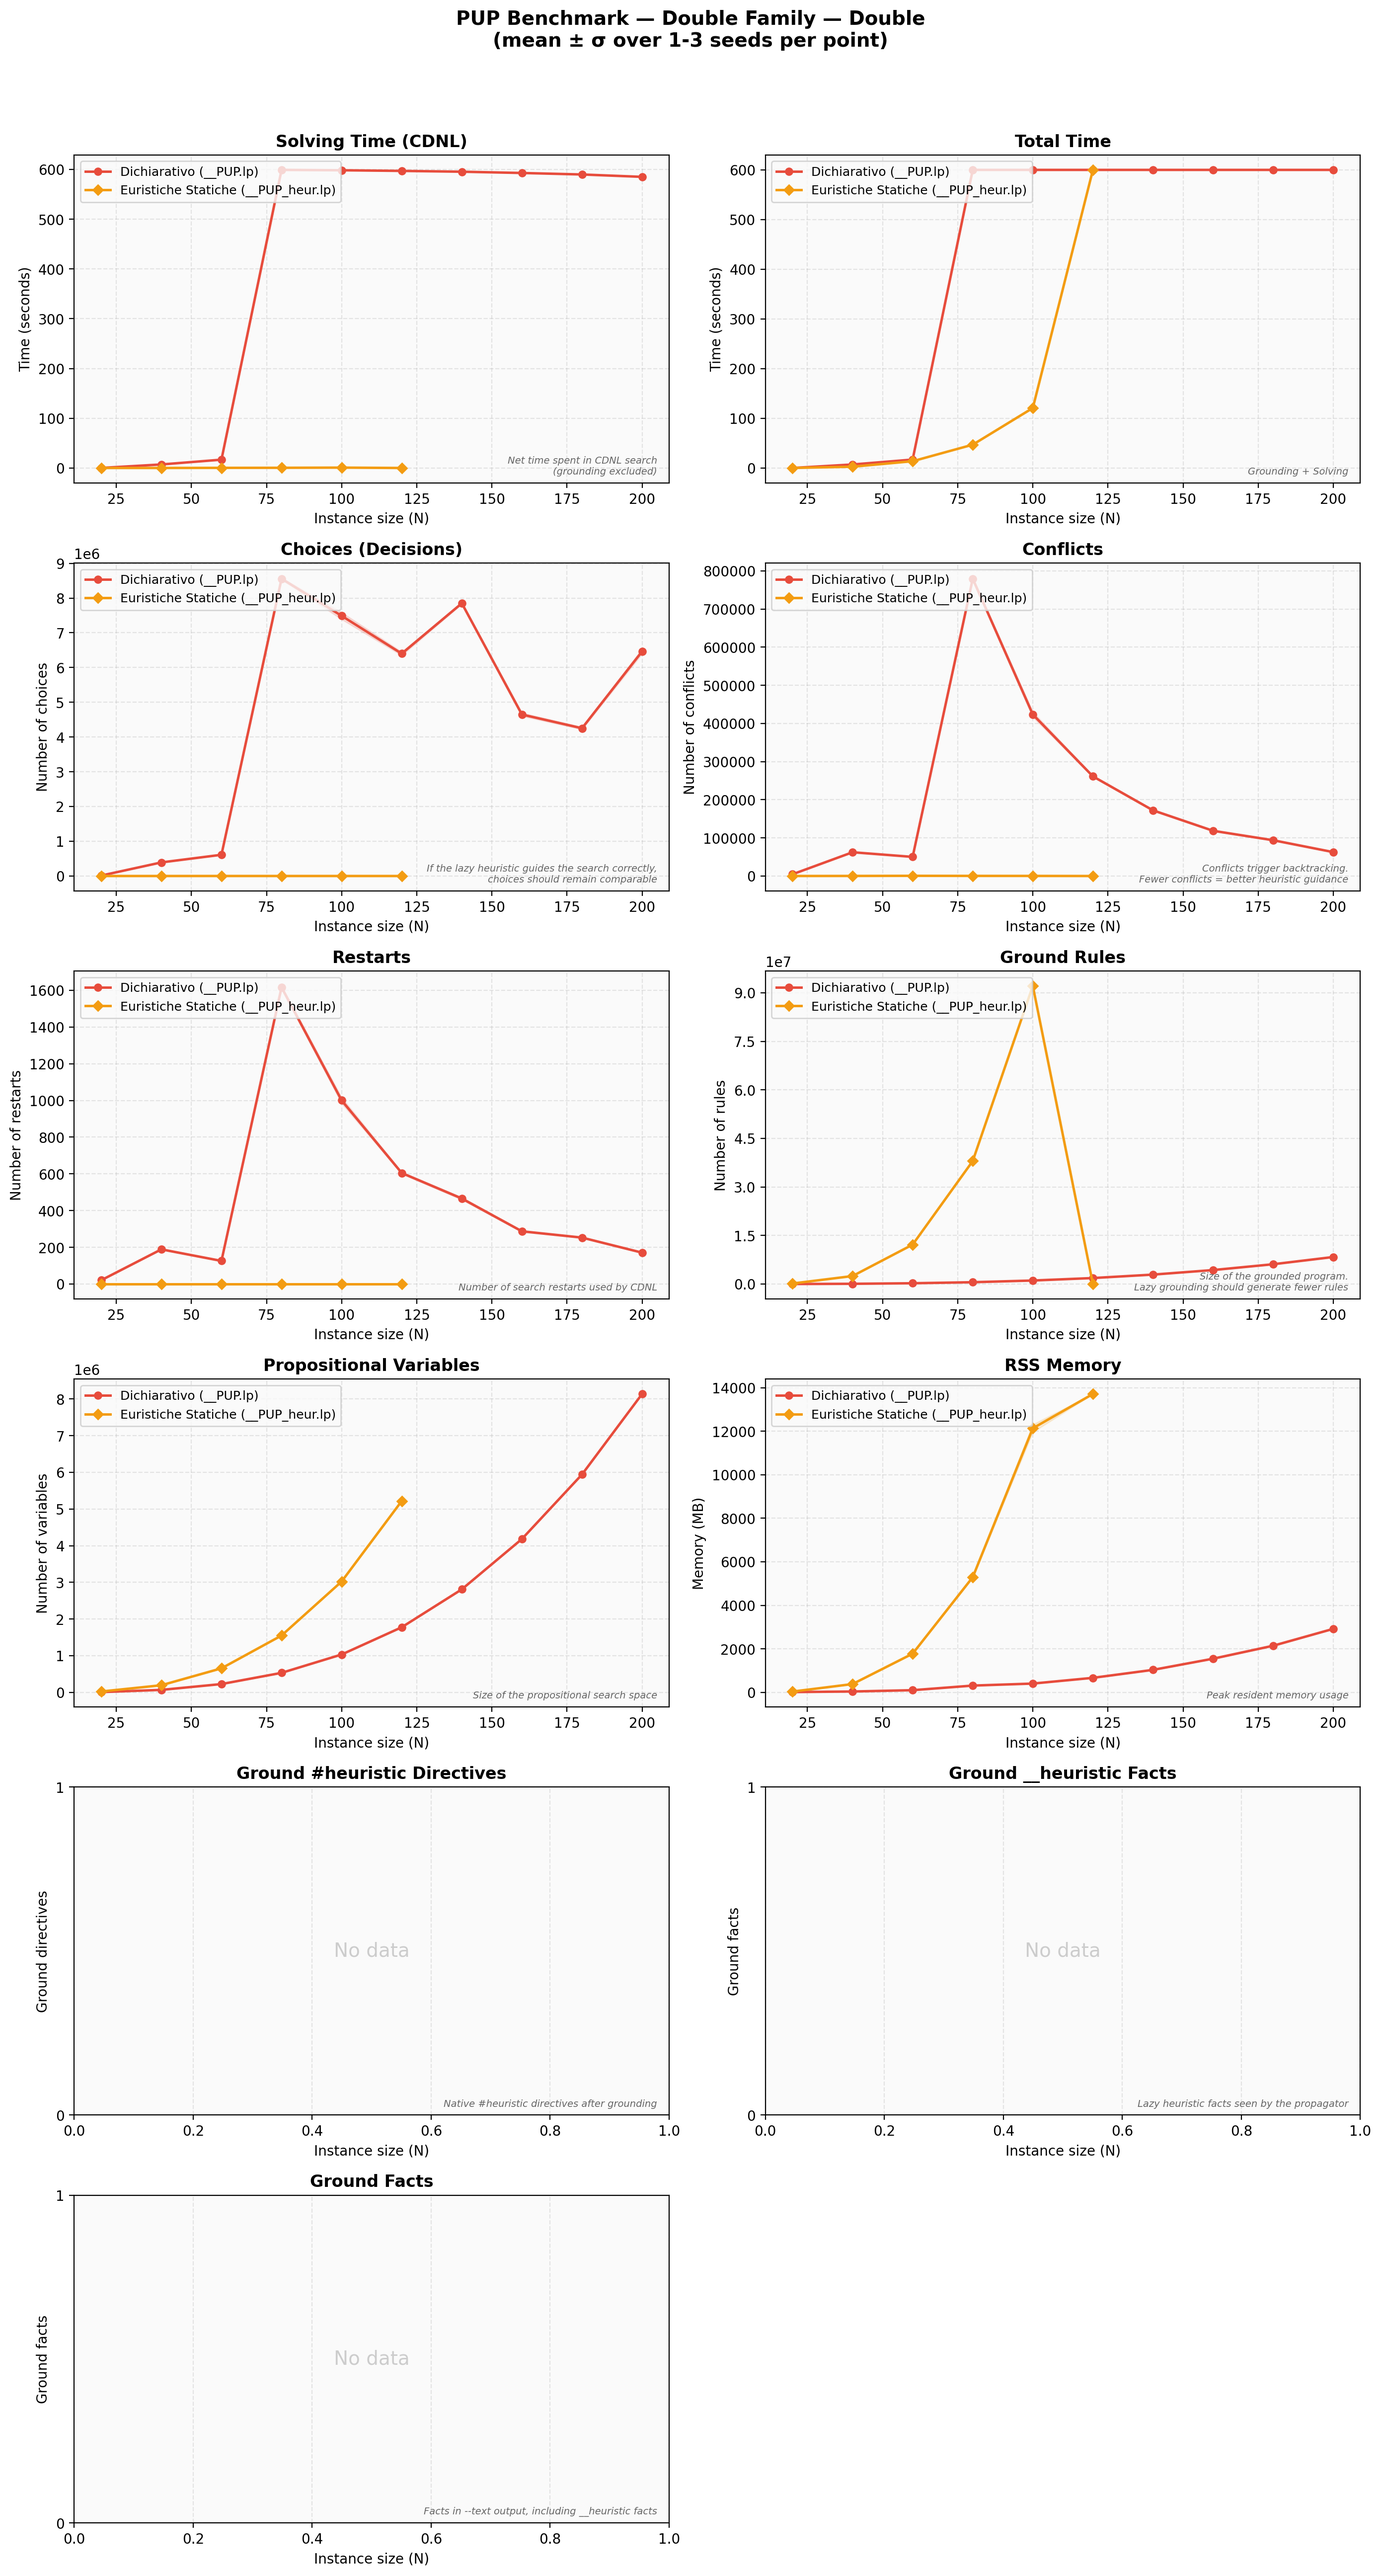
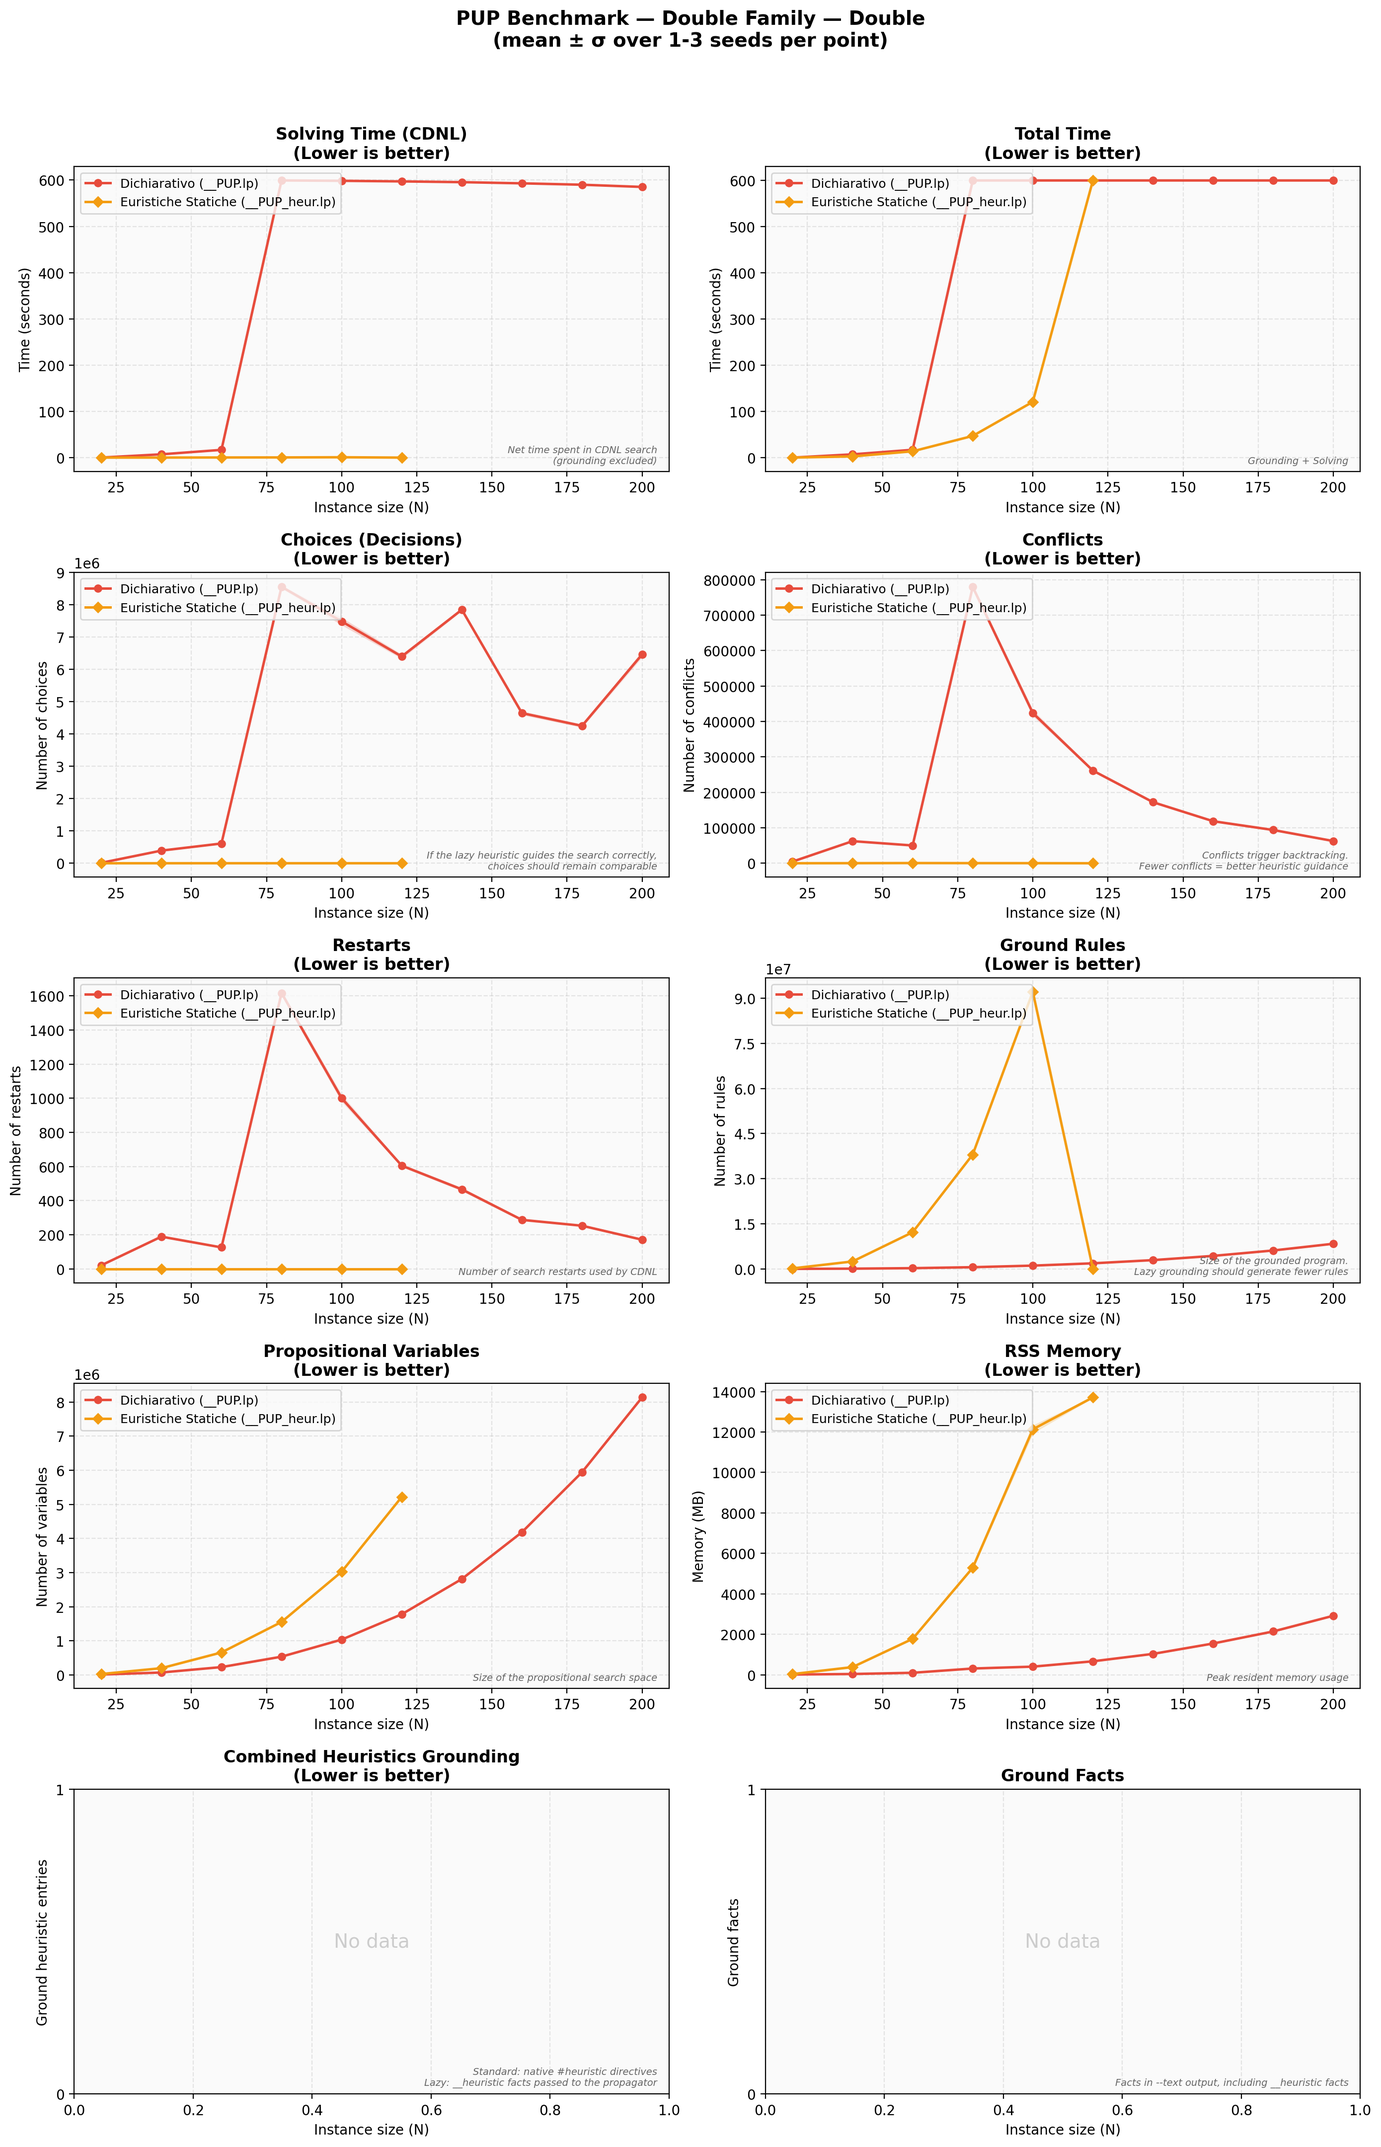
dai

diff --git a/test_folder/gen_graphs.py b/test_folder/gen_graphs.py
@@ -21,6 +21,7 @@ Each point is averaged across N seeds; the shaded band shows ±1σ.
 import argparse
 import csv
 import os
+import shutil
 import sys
 from collections import defaultdict
 
@@ -52,7 +53,19 @@ INTEGER_METRICS = {
     "variables",
     "ground_heuristics",
     "ground_lazy_heuristic_facts",
+    "combined_heuristics",
     "ground_facts",
+}
+LOWER_IS_BETTER_METRICS = {
+    "solving_s",
+    "total_s",
+    "choices",
+    "conflicts",
+    "restarts",
+    "rules",
+    "variables",
+    "memory_mb",
+    "combined_heuristics",
 }
 
 PLOT_CONFIGS = [
@@ -113,18 +126,11 @@ PLOT_CONFIGS = [
         "filename": "memory_comparison.png",
     },
     {
-        "metric": "ground_heuristics",
-        "title": "Ground #heuristic Directives",
-        "ylabel": "Ground directives",
-        "description": "Native #heuristic directives after grounding",
-        "filename": "ground_heuristics.png",
-    },
-    {
-        "metric": "ground_lazy_heuristic_facts",
-        "title": "Ground __heuristic Facts",
-        "ylabel": "Ground facts",
-        "description": "Lazy heuristic facts seen by the propagator",
-        "filename": "ground_lazy_heuristic_facts.png",
+        "metric": "combined_heuristics",
+        "title": "Combined Heuristics Grounding",
+        "ylabel": "Ground heuristic entries",
+        "description": "Standard: native #heuristic directives\nLazy: __heuristic facts passed to the propagator",
+        "filename": "combined_heuristics.png",
     },
     {
         "metric": "ground_facts",
@@ -241,14 +247,25 @@ def load_csv(csv_path: str):
         for row in reader:
             variant = row["variant"].strip()
             n = int(row["n"])
+            row_values = {}
 
             for metric in METRIC_FIELDS:
                 val_str = row.get(metric, "").strip()
                 if val_str not in ("NA", ""):
                     try:
-                        raw[variant][n][metric].append(float(val_str))
+                        value = float(val_str)
+                        raw[variant][n][metric].append(value)
+                        row_values[metric] = value
                     except ValueError:
                         pass
+
+            heuristic_values = [
+                row_values[m]
+                for m in ("ground_heuristics", "ground_lazy_heuristic_facts")
+                if m in row_values
+            ]
+            if heuristic_values:
+                raw[variant][n]["combined_heuristics"].append(sum(heuristic_values))
 
     return raw
 
@@ -282,6 +299,13 @@ def compute_stats(raw):
 # ============================================================================
 
 VARIANT_FILL_ALPHA = 0.15
+
+
+def _format_title(metric: str, title: str) -> str:
+    """Append an interpretation hint only to metrics where lower values are better."""
+    if metric in LOWER_IS_BETTER_METRICS:
+        return f"{title}\n(Lower is better)"
+    return title
 
 
 def _ordered_variants(stats: dict, theme: dict):
@@ -364,7 +388,7 @@ def generate_graphs(stats: dict, graphs_dir: str, theme: dict, title_suffix: str
             ax.fill_between(n, mean - std, mean + std,
                             alpha=VARIANT_FILL_ALPHA, color=color, zorder=2)
 
-        ax.set_title(config["title"])
+        ax.set_title(_format_title(metric, config["title"]))
         ax.set_xlabel(xlabel)
         ax.set_ylabel(config["ylabel"])
         if has_data:
@@ -406,7 +430,7 @@ def generate_graphs(stats: dict, graphs_dir: str, theme: dict, title_suffix: str
             stats=stats,
             graphs_dir=graphs_dir,
             metric=cfg["metric"],
-            title=cfg["title"],
+            title=_format_title(cfg["metric"], cfg["title"]),
             ylabel=cfg["ylabel"],
             filename=fname,
             theme=theme,
@@ -838,6 +862,29 @@ def _get_mean_at_n(variant_stats, metric, n):
 # Processing pipeline
 # ============================================================================
 
+def reset_graphs_dir(graphs_dir):
+    """Remove previous generated charts before rebuilding them from CSV data."""
+    graphs_dir = os.path.abspath(graphs_dir)
+    cwd = os.path.abspath(os.getcwd())
+    unsafe_paths = {os.path.abspath(os.sep), cwd, os.path.expanduser("~")}
+    if graphs_dir in unsafe_paths:
+        raise ValueError(f"Refusing to clean unsafe output directory: '{graphs_dir}'")
+
+    if not os.path.isdir(graphs_dir):
+        os.makedirs(graphs_dir, exist_ok=True)
+        print(f"\nOutput grafici inizializzato: '{graphs_dir}'")
+        return
+
+    for entry in os.listdir(graphs_dir):
+        path = os.path.join(graphs_dir, entry)
+        if os.path.isdir(path) and not os.path.islink(path):
+            shutil.rmtree(path)
+        else:
+            os.remove(path)
+
+    print(f"\nOutput grafici svuotato: '{graphs_dir}'")
+
+
 def process_csv(csv_path, graphs_dir, theme, problem_name, title_suffix=""):
     """Process a single CSV file: load, compute stats, print table, generate graphs."""
     if not os.path.isfile(csv_path):
@@ -889,6 +936,15 @@ def main():
     base_out = args.out
 
     processed_any = False
+
+    expected_csvs = [
+        os.path.join(results_dir, "bsp_results.csv"),
+        os.path.join(results_dir, "pup_double_results.csv"),
+        os.path.join(results_dir, "pup_doublev_results.csv"),
+        os.path.join(results_dir, "results.csv"),
+    ]
+    if any(os.path.isfile(path) for path in expected_csvs):
+        reset_graphs_dir(base_out)
 
     # ---- BSP ----
     bsp_csv = os.path.join(results_dir, "bsp_results.csv")
